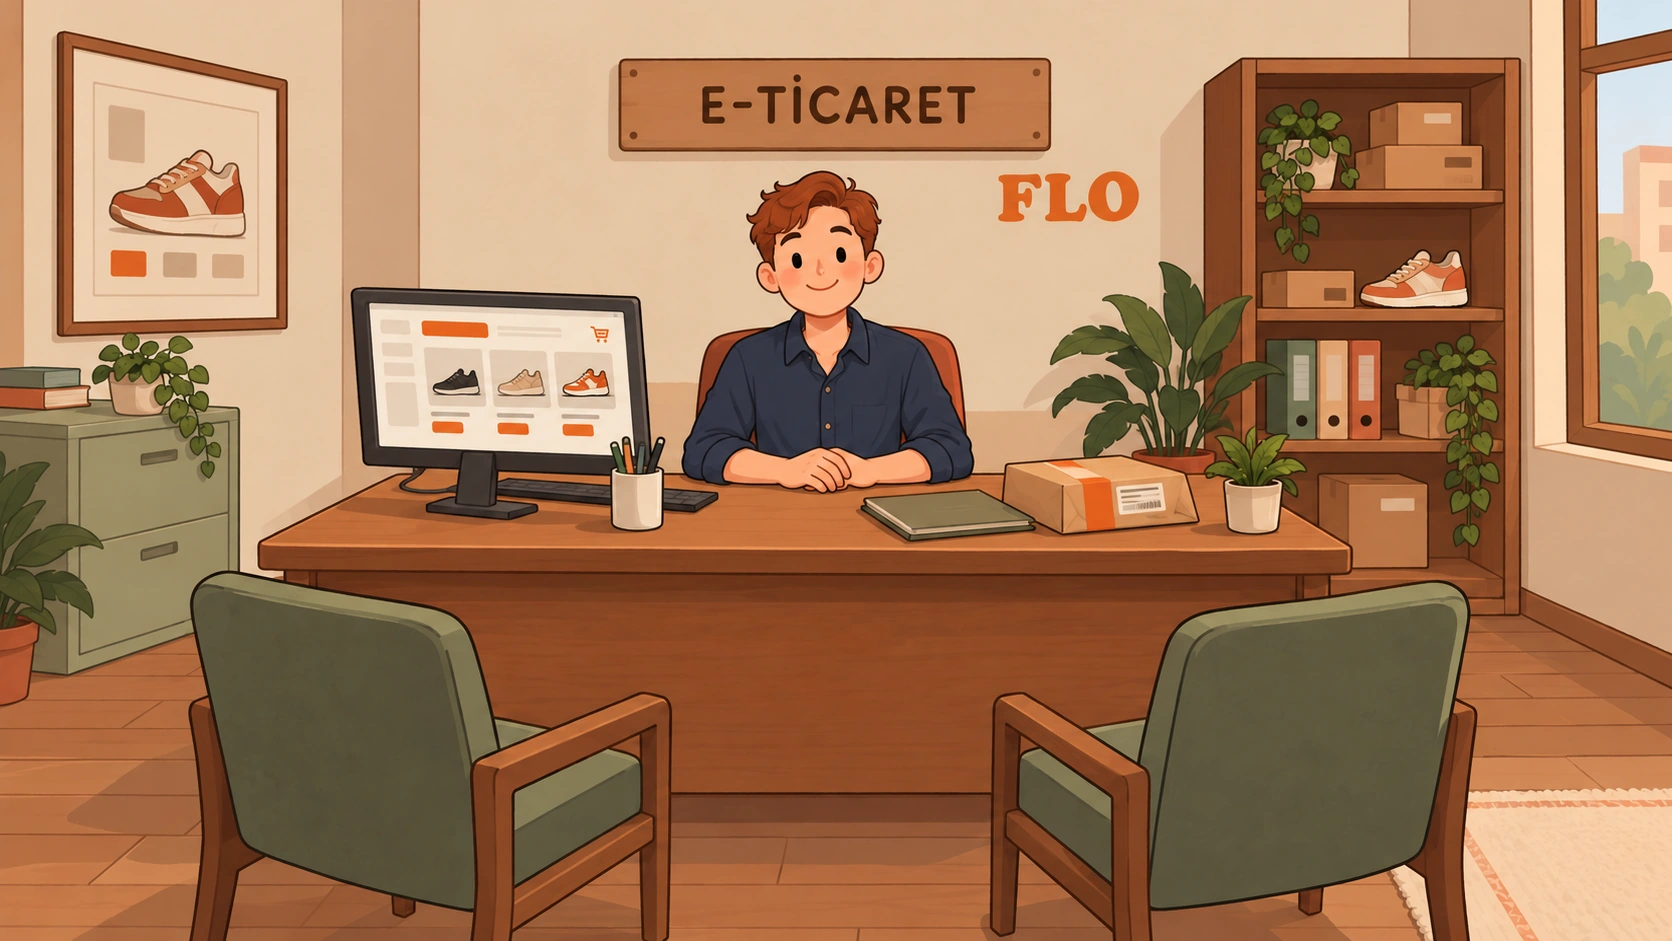
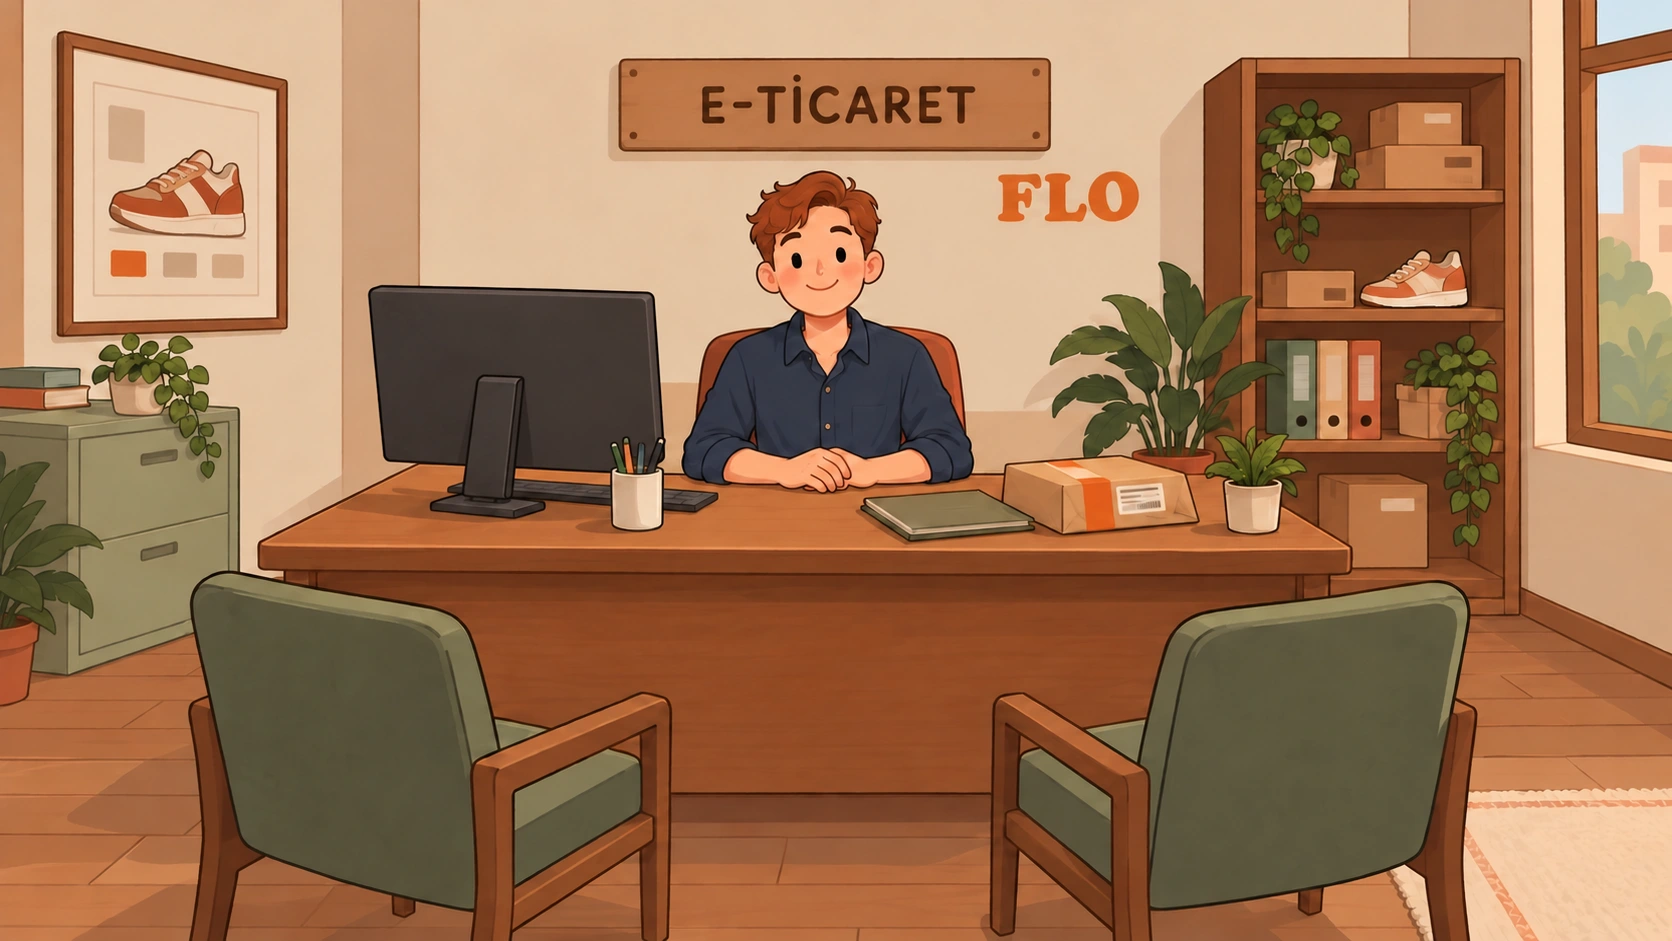
Refine door hover and correct ecommerce monitor orientation

Changed region(s): [[0.1866, 0.2774, 0.4043, 0.5547], [0.7464, 0.1849, 0.7775, 0.2157], [0.0933, 0.4006, 0.1244, 0.4315]]

diff --git a/css/cozy-theme.css b/css/cozy-theme.css
@@ -261,3 +261,16 @@ a.creator-social:hover { color:#fff; background:#da4613; }
     #chatbot-dialog .chatbot-panel { height:min(560px,70dvh); }
     .guide-arrow { bottom:190px; }
 }
+.door-btn,.door-btn.completed,.door-btn.next-destination {
+    background:transparent;
+    border:0;
+    box-shadow:none;
+    outline:none;
+    animation:none;
+}
+.door-btn:hover,.door-btn.completed:hover,.door-btn:focus-visible,.door-btn:active {
+    background:rgba(255,245,224,.14);
+    border:0;
+    box-shadow:inset 0 0 16px rgba(255,230,190,.18);
+}
+.door-btn:focus-visible { outline:2px solid #f5bd80; outline-offset:2px; }
